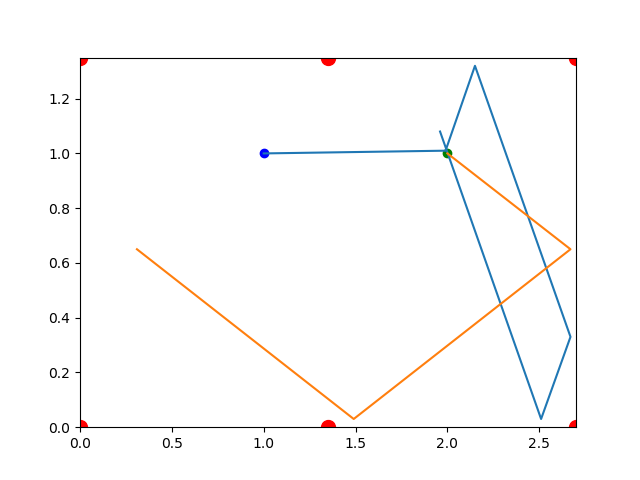
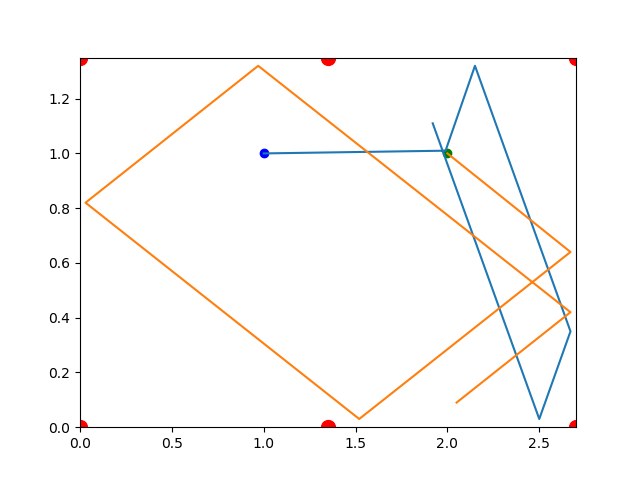
Fixed algorithm for different mass

diff --git a/fiz3/phproject3.py b/fiz3/phproject3.py
@@ -168,14 +168,13 @@ class Ball:
             if dst >= 2*BALL_R - MARGIN:
                 return time
             else:
-                h = -0.001
+                h = -0.00001
                 dstprim = (normDistance(self.Movement.getPosition(time+h), other.Movement.getPosition(time+h)) - dst) / h
                 time -= (2*BALL_R - dst) / dstprim
-                # debug = normDistance(self.Movement.getPosition(time), other.Movement.getPosition(time))
                 return time
         if right-left < MARGIN:
             return None
-        h = 0.001
+        h = 0.00001
         dstprim = normDistance(self.Movement.getPosition(time+h), other.Movement.getPosition(time+h)) - dst
         if dstprim < 0:
             return self.getBallHit(other, time, right)
@@ -186,8 +185,8 @@ class Ball:
         normal = numpy.array(self.Movement.Begin) - numpy.array(other.Movement.Begin)
         dst = (normal @ normal)**0.5
         normal = normal / dst
-        dmom = numpy.array(self.Movement.Velocity) * self.Mass - numpy.array(other.Movement.Velocity) * other.Mass
-        strength = dmom @ normal
+        dv = numpy.array(self.Movement.Velocity) - numpy.array(other.Movement.Velocity)
+        strength = (dv @ normal) * 2 * self.Mass * other.Mass / (self.Mass + other.Mass)
         return normal * strength
 
     def transferEnergy(self, other, bht):
@@ -224,7 +223,7 @@ def main(index, fhandle):
     print("-"*30, index+1, "-"*30)
     column = tuplify(DATA[index], NAMESIN, NAMESIN)
     draw([column['white'], column['colored']])
-    balls = [Ball(column['white'], column['velocity']), Ball(column['colored'], mass=2*BALL_MASS)]
+    balls = [Ball(column['white'], column['velocity']), Ball(column['colored'])]
     counter = {'white':-1, 'color':-1, 'ball':0}
     # loop every bounce
     while balls[0].inside and balls[1].inside:
